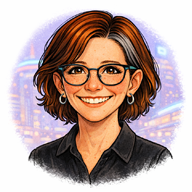
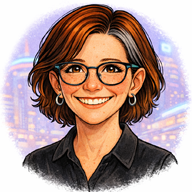
new portrait
new portrait

diff --git a/index.html b/index.html
@@ -1751,7 +1751,7 @@
                     <div class="row">
                           <h2>ABOUT ME</h2>
 						
-						<div class="col-lg-12 col-md-12 col-sm-12"><img src="assets/img/portrait-192px.jpg" width="192" height="192" alt="Karen Lake" style="margin-bottom: 10px;"></div>
+						<div class="col-lg-12 col-md-12 col-sm-12"><img src="assets/img/portrait-192px.png" width="192" height="192" alt="Karen Lake" style="margin-bottom: 10px;"></div>
 						
 						<div class="col-lg-12 col-md-12 col-sm-12"><p class="about">“Highly skilled, motivated and enthusiastic Web Designer and Developer with a strong accessibility and inclusion focus. Over 15 years of experience in the semi-government and university sectors. Experience using Squiz Matrix CMS and WordPress platforms. Strong coding skills in HTML, CSS and Javascript with methodical problem-solving skills.”</p>
 					  </div>